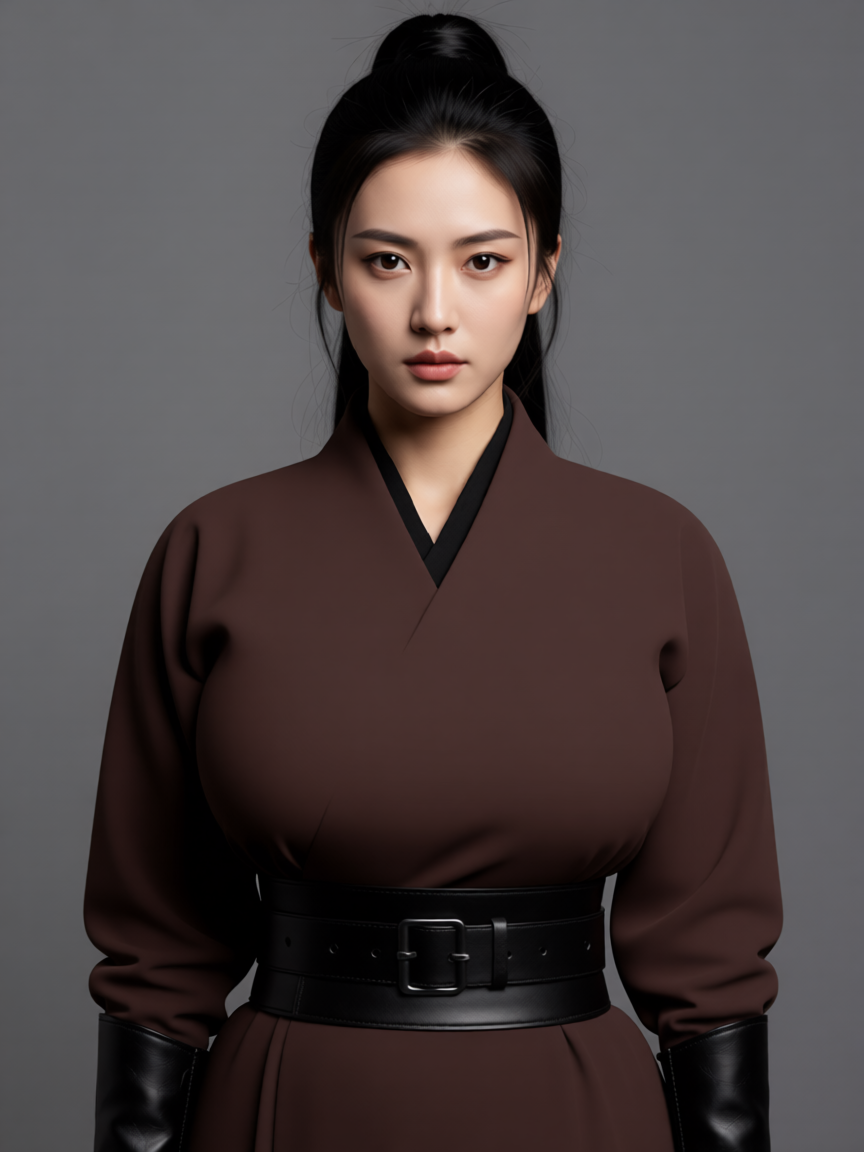
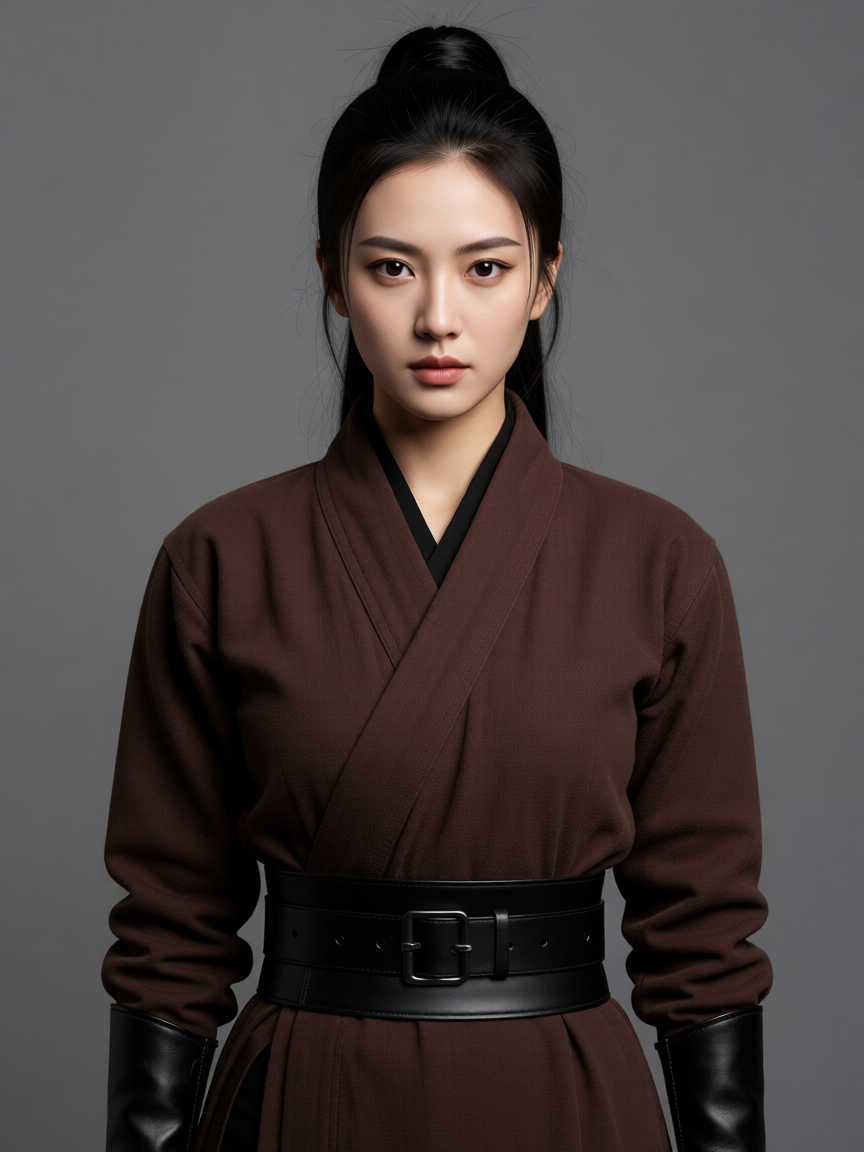
zhong-tian live action: heroines back to the unedited portraits (owner: 沒改胸部的); pilot builder (not run)
The heroines' angle views were drawn from the bust edits, so they are removed
until they are redrawn from the originals.

Claude-Session: https://claude.ai/code/session_018EYovKNmSMKVnfFFMhZJH2

diff --git a/docs/videos/series-plans/zhong-tian-qu-qi/production/live-action/pilot.py b/docs/videos/series-plans/zhong-tian-qu-qi/production/live-action/pilot.py
@@ -1,0 +1,83 @@
+#!/usr/bin/env python3
+"""pilot.py CG_ST1_DIR OUT_DIR sNN [sNN ...] : turn route-A stage-1 jobs of the 3D CG version into live-action jobs.
+
+For the live-action pilot (owner 2026-11-07: remake 種田 as live action; plan in ../live-action-plan.md). Each job keeps
+its shot text, camera and motion, and changes three things:
+- the two style sentences: "[Shot 1] 3D CG." and "Smooth, weighty 3D CG character animation; ..." become live action;
+- each character's appearance becomes the live-action look the owner picked (the cast.json text with the screen-test
+  fixes: Song-dynasty clothing for the supporting cast, props out of the base look, Tang Xiaotang's high-waisted ruqun);
+- every reference picture maps to its live-action pick in assets/refs-live (portrait, angle views, set).
+Writes OUT_DIR/ref-pilot.json and OUT_DIR/prompts/ref-sNN.txt (the layout retake.py reads). Fails when a picture or
+an appearance has no live-action version, rather than send a CG picture.
+"""
+import json
+import re
+import sys
+from pathlib import Path
+
+PROD = Path(__file__).resolve().parent.parent
+LIVE = PROD / "assets" / "refs-live"
+cast = json.loads((PROD / "cast.json").read_text(encoding="utf-8"))
+src, out, shots = Path(sys.argv[1]), Path(sys.argv[2]), sys.argv[3:]
+(out / "prompts").mkdir(parents=True, exist_ok=True)
+
+STYLE_OLD = ["[Shot 1] 3D CG.", "Smooth, weighty 3D CG character animation; faces, hair and costumes stay as in their reference pictures."]
+STYLE_NEW = ["[Shot 1] Photorealistic live-action film footage of real actors in an ancient Chinese (Song-dynasty) period drama, shot on a cinema camera.",
+             "Natural, realistic human motion of real actors; faces, hair and costumes stay as in their reference pictures."]
+LIVE_LOOK = {  # cast.json text -> the live-action text the screen test drew (screen-test.py)
+    "a coarse brown short jacket with rolled sleeves": "an ancient Chinese Song-dynasty peasant's coarse brown hemp cross-collared short jacket with rolled sleeves, tied with a cloth sash",
+    "a black constable's hat and plain black official uniform": "an ancient Chinese Song-dynasty constable's soft black futou cap and a plain black round-collared constable's robe",
+    "a dark gold silk robe with roundel patterns": "an ancient Chinese Song-dynasty rich landlord's dark gold silk cross-collared robe with roundel patterns and a small black cap",
+    "a grey-brown short jacket and an old cloth head wrap": "an ancient Chinese Song-dynasty peasant's grey-brown hemp cross-collared short jacket and an old cloth head wrap",
+    "a patched lilac cotton jacket": "an ancient Chinese village child's patched lilac cotton jacket",
+    ", an old chopping knife tucked in the belt": ", her wide leather belt plain",
+    " with an iron ruler at his belt": "",
+}
+tang = next(c for c in cast["characters"] if c["id"] == "tangxiaotang")["appearance"]
+TANG_LIVE = re.sub(r"a fitted peach-pink silk brocade ruqun with a high stand-up mandarin collar.*?see-through",
+                   "a peach-pink silk brocade Tang-dynasty high-waisted ruqun: a light cross-collared short jacket open in a soft V "
+                   "over a chest-high skirt tied above the bust with a ribbon, a low neckline, thick opaque silk", tang)
+
+
+def live_picture(name):
+    m = re.match(r"(?P<id>[a-z]+)-(?P<kind>portrait|angle-[ab]|modern)(-t\d)?\.png$", name)
+    s = re.match(r"set-(?P<id>[a-z-]+)-t\d\.png$", name)
+    if s:
+        path = LIVE / f"set-{s['id']}-l1.png"
+    elif m and m["kind"] == "portrait":
+        path = LIVE / f"{m['id']}-portrait-l1.png"
+    elif m and m["kind"] == "modern":
+        path = LIVE / f"{m['id']}-modern-l1.png"
+    elif m:
+        path = LIVE / "angles" / f"{m['id']}-{m['kind']}-l1.png"
+    else:
+        path = None
+    if not path or not path.exists():
+        sys.exit(f"no live-action picture for {name} (looked for {path})")
+    return str(path)
+
+
+jobs = {}
+for manifest in sorted(src.glob("ref-e*-part*.json")):
+    for job in json.loads(manifest.read_text(encoding="utf-8"))["jobs"]:
+        jobs[job["id"]] = job
+new_jobs = []
+for sid in shots:
+    job = dict(jobs[sid])
+    text = (src / job["prompt_file"]).read_text(encoding="utf-8")
+    for old, new in zip(STYLE_OLD, STYLE_NEW):
+        if old not in text:
+            sys.exit(f"{sid}: style sentence not found: {old[:40]}")
+        text = text.replace(old, new)
+    for old, new in LIVE_LOOK.items():
+        text = text.replace(old, new)
+    text = text.replace(tang, TANG_LIVE)
+    if "3D" in text or "CG" in text:
+        sys.exit(f"{sid}: a 3D CG mention is left in the prompt")
+    job["reference_images"] = [live_picture(Path(r).name) for r in job["reference_images"]]
+    job["prompt_file"] = f"prompts/ref-{sid}.txt"
+    job.pop("prompt_sha256", None)
+    (out / job["prompt_file"]).write_text(text, encoding="utf-8")
+    new_jobs.append(job)
+(out / "ref-pilot-part1.json").write_text(json.dumps({"jobs": new_jobs}, ensure_ascii=False, indent=2) + "\n", encoding="utf-8")
+print(f"{len(new_jobs)} live-action jobs -> {out}")

diff --git a/docs/videos/series-plans/zhong-tian-qu-qi/production/assets/refs-live/README.md b/docs/videos/series-plans/zhong-tian-qu-qi/production/assets/refs-live/README.md
@@ -16,7 +16,7 @@
 | set-xujia-yuan / xianya / shiji -l1 | v2 37002 |
 | set-xujia-zao / xujia-wu / liuxi-he -l1 | v2 37001 |
 
-三位女主角（唐小棠、秦霜、阿玲）的 `-portrait-l1` 換成「只改胸部」那一輪的 A（`live-bust/out2/<id>-onlybust-39001.png`，站主 2026-11-07：「都用A好了」）；換之前的原圖留在 `<id>-portrait-l1-before-bust.png`。
+三位女主角（唐小棠、秦霜、阿玲）用**沒改胸部的原圖**（站主 2026-11-07：「我要選沒改胸部的」）。改胸部的幾輪在 `_series/zhong-tian-qu-qi/live-bust/`，不用。
 
 角度圖（`angles/<id>-angle-a-l1.png` 四分之三側、`-angle-b-l1.png` 正側面，2026-11-07，從 `live-angles/out/` 挑）：
-許硯 a 42001、b 42002；唐小棠 a 42002、b 42002；秦霜 a 42001、b 42001（42002 的頭髮變成髮髻）；阿玲 a 42002、b 42002；小禾 a 42002、b 42002。
+許硯 a 42001、b 42002；小禾 a 42002、b 42002。三位女主角的角度圖是從改過胸部的圖畫的，已經拿掉，要從原圖重畫（等站主點頭）。
